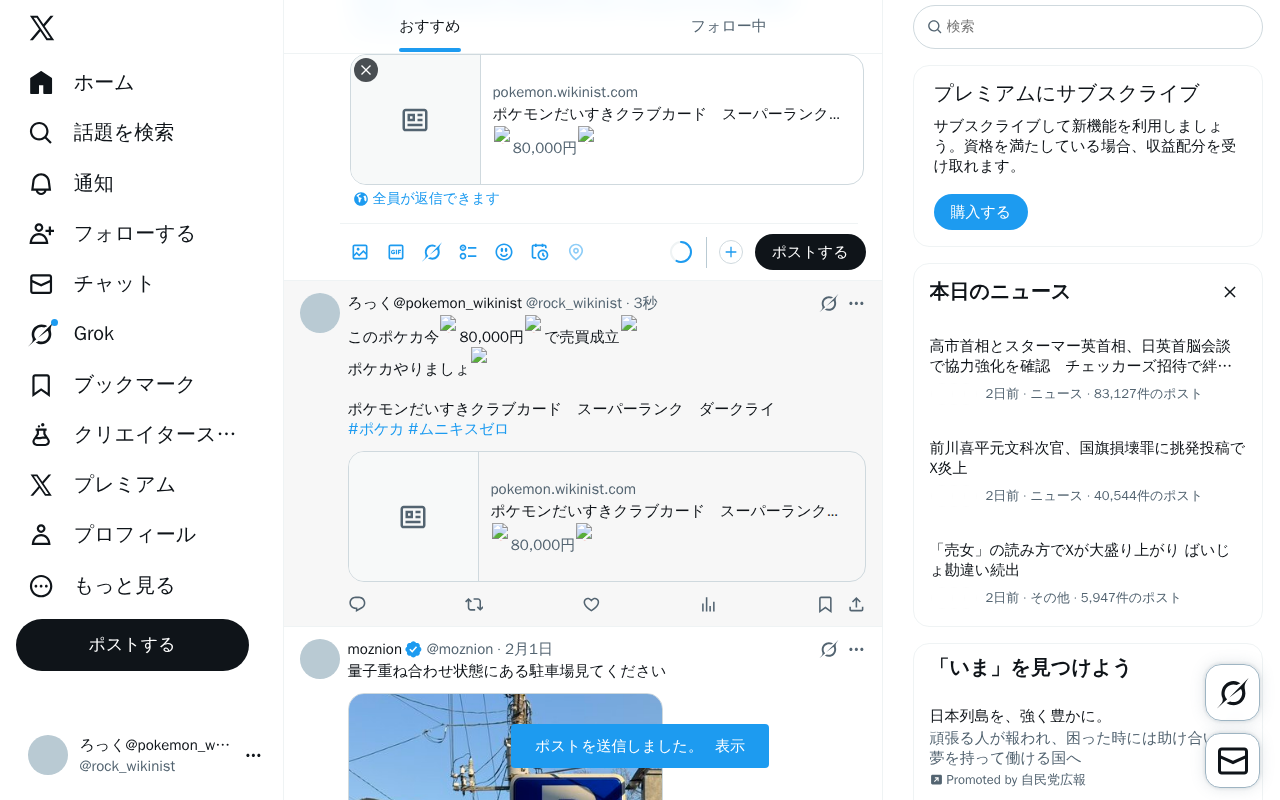
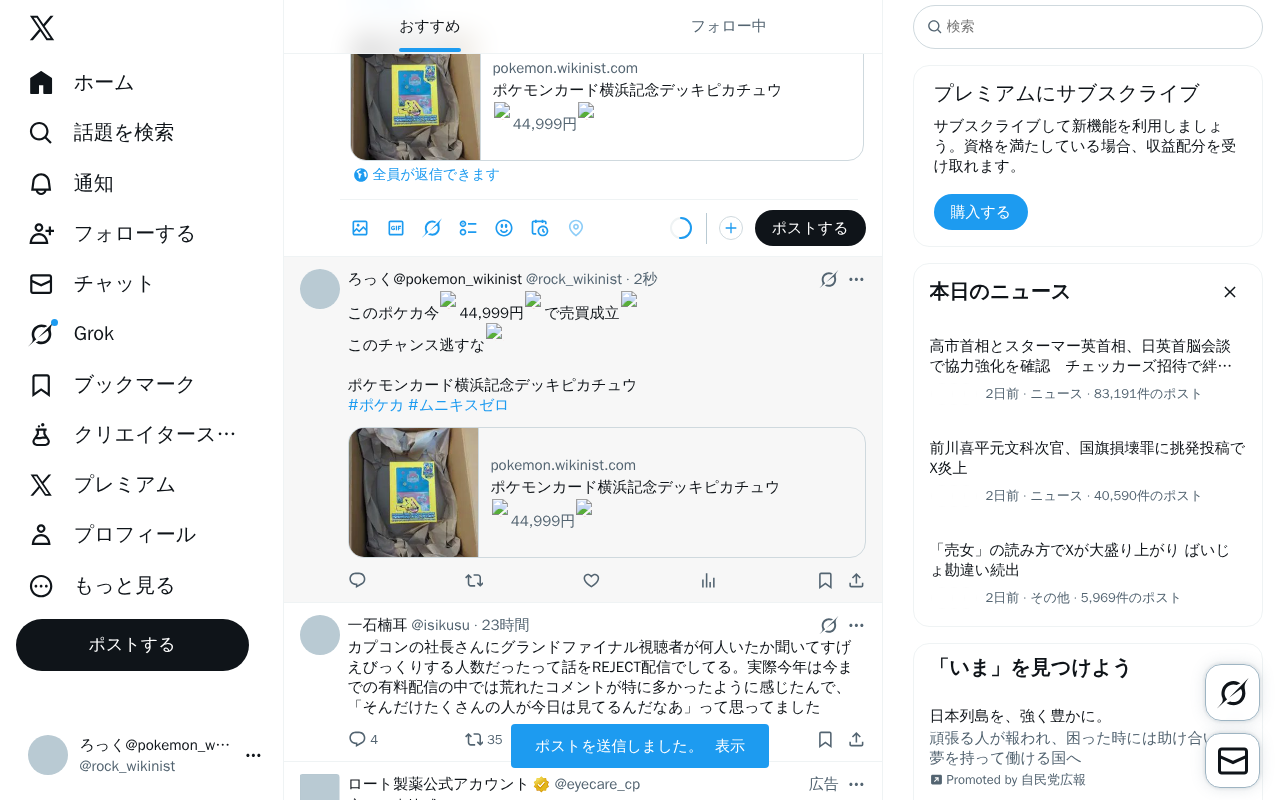
update system data

diff --git a/layouts/_default/list.html b/layouts/_default/list.html
@@ -20,7 +20,12 @@
     {{- if .Params.cover.image }}
       <div style="margin-bottom: 15px; position: relative; z-index: 20; display: inline-block;">
         <a href="{{ .Permalink }}" style="display: block;">
-          <img src="{{ .Params.cover.image | absURL }}" alt="商品画像" style="max-width: 100%; height: auto; border-radius: 8px;">
+          <img src="{{ .Params.cover.image | absURL }}" 
+               alt="商品画像" 
+               style="max-width: 100%; height: auto; border-radius: 8px;"
+               fetchpriority="high"
+               width="400" 
+               height="300">
         </a>
       </div>
     {{- end }}

diff --git a/content/posts/test-pokemon-20260202-164111.md b/content/posts/test-pokemon-20260202-164111.md
@@ -1,0 +1,38 @@
+---
+title: "ポケモンカード横浜記念デッキピカチュウ"
+date: 2026-02-02T16:41:11+09:00
+description: "🔥44,999円🔥 メルカリで「ポケモンカード横浜記念デッキピカチュウ」が販売中！"
+amazon_url: "https://jp.mercari.com/item/m45296276840?afid=1391290753"
+robotsNoIndex: true
+categories: ["ポケモン"]
+tags: ["ピカチュウ", "3万円以上"]
+cover:
+  image: "https://static.mercdn.net/thumb/item/webp/m45296276840_1.jpg?1769903000"
+  hiddenInList: true
+  hiddenInSingle: true
+---
+
+<div class="image-and-buttons">
+    <div class="image-area" style="margin-bottom: 20px; text-align: center;">
+        <a href="https://jp.mercari.com/item/m45296276840?afid=1391290753" target="_blank" rel="nofollow sponsored noopener noreferrer">
+            <img src="https://static.mercdn.net/thumb/item/webp/m45296276840_1.jpg?1769903000" alt="44,999" style="max-width: 100%; border-radius: 8px; border: 1px solid #ddd;" />
+        </a>
+        <br><span style="font-size:1.5em;color:red;font-weight:bold;">🔥44,999円🔥</span>
+    </div>
+    <div class="link-buttons">
+        <a href="https://jp.mercari.com/item/m45296276840?afid=1391290753" target="_blank" rel="nofollow sponsored noopener noreferrer">
+            💎 商品状態を見る
+        </a>
+        <a href="https://jp.mercari.com/search?afid=1391290753&category_id=1289&keyword=%E3%83%9D%E3%82%B1%E3%83%A2%E3%83%B3%E3%82%AB%E3%83%BC%E3%83%89%E6%A8%AA%E6%B5%9C%E8%A8%98%E5%BF%B5%E3%83%87%E3%83%83%E3%82%AD%E3%83%94%E3%82%AB%E3%83%81%E3%83%A5%E3%82%A6" target="_blank" rel="nofollow sponsored noopener noreferrer">
+            🔍 類似商品を見る
+        </a>
+        <a href="https://jp.mercari.com/search?afid=1391290753&brand_id=&category_id=1289&color_id=&item_condition_id=&item_types=&keyword=%E3%83%9D%E3%82%B1%E3%83%A2%E3%83%B3%E3%82%AB%E3%83%BC%E3%83%89%E6%A8%AA%E6%B5%9C%E8%A8%98%E5%BF%B5%E3%83%87%E3%83%83%E3%82%AD%E3%83%94%E3%82%AB%E3%83%81%E3%83%A5%E3%82%A6&order=desc&shipping_method=&shipping_payer_id=&size_id=&sort=created_time&status=sold_out%2Ctrading" target="_blank" rel="nofollow sponsored noopener noreferrer">
+            📈 価格推移・履歴を見る
+        </a>
+    </div>
+</div>
+
+<p style="font-size:1.0em;color:#555;line-height:1.6;">
+「ポケモンカード横浜記念デッキピカチュウ」はメルカリに出品されました！<br>
+最新のポケモン情報は当サイトで随時更新中です。
+</p>
